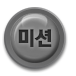
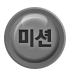
커먼버튼수정

Changed region(s): [[0.0263, 0.4474, 0.8947, 0.9474], [0.8421, 0.3947, 0.8684, 0.4211], [0.0526, 0.3947, 0.0789, 0.4211]]

diff --git a/Classes/RollingButton.h b/Classes/RollingButton.h
@@ -26,6 +26,8 @@ public:
 	CCMenuItemImage* m_openBtn;
 	CCMenuItemImage* m_closeBtn;
 	
+	CCSprite* m_success;
+	
 	CCMenu* m_menu;
 	
 //	CCSprite* m_black_left;
@@ -68,13 +70,18 @@ public:
 		m_closeBtn->setOpacity(0);
 		m_closeBtn->setVisible(false);
 		
+		m_success = CCSprite::create("ui_mission_clear.png");
+		m_success->setAnchorPoint(ccp(0,0));
+		m_success->setPosition(ccp(0,0));
+		m_success->setVisible(false);
+		m_openBtn->addChild(m_success);
 		
 		m_menu = CCMenu::create(m_openBtn,m_closeBtn,NULL);
 		m_menu->setPosition(ccp(0,0));
 		this->addChild(m_menu,3);
 		
 		
-		m_black = CommonButton::getBackgroundByType(CommonButtonGray);
+		m_black = CommonButton::getBackgroundByType(CommonButtonGray2);
 		m_black->setAnchorPoint(ccp(0.5f,0.5f));
 		m_black->setPosition(ccp(0,0));
 		m_black->setContentSize(CCSizeMake(15,15));
@@ -104,7 +111,7 @@ public:
 		
 		// Setup scroll view
 		
-		m_maqueeLbl = LabelTTFMarquee::create(ccc4(170,0,0,0), 160, 18, text);
+		m_maqueeLbl = LabelTTFMarquee::create(ccc4(160,0,0,0), 160, 12, text);
 		m_maqueeLbl->setAnchorPoint(ccp(0.47,0.5));
 		m_maqueeLbl->setPosition(ccp(0,0));
 		m_maqueeLbl->setVisible(false);
@@ -171,11 +178,19 @@ public:
 		this->m_maqueeLbl->stopMarqueeAtIndex(index);
 	}
 	
+	void isSuccessed(bool isSuccessed){
+		if(isSuccessed){
+			m_success->setVisible(true);
+		}else{
+			m_success->setVisible(false);
+		}
+	}
+	
 	void doOpen(){
 		if(m_isOpened==true)return;
 		
 		this->addChild(KSGradualValue<float>::create(38,218,0.3f,[=](float t){
-			m_black->setContentSize(ccp(t,42));
+			m_black->setContentSize(ccp(t,30));
 		}));
 
 //		{

diff --git a/Classes/CommonButton.h b/Classes/CommonButton.h
@@ -22,7 +22,8 @@ using namespace std;
 
 enum CommonButtonType {
 		CommonButtonYellow,
-		CommonButtonGray,
+	CommonButtonGray,
+	CommonButtonGray2,
 		CommonButtonBlue,
 		CommonButtonGreen,
 		CommonButtonOrange,
@@ -150,6 +151,7 @@ public:
 		if(btnType==CommonButtonYellow) btnBackImg = "common_button_yellow.png";
 		else if(btnType==CommonButtonYellow) btnBackImg = "common_button_yellow.png";
 		else if(btnType==CommonButtonGray) btnBackImg = "common_button_gray.png";
+		else if(btnType==CommonButtonGray2) btnBackImg = "common_button_gray2.png";
 		else if(btnType==CommonButtonBlue) btnBackImg = "common_button_blue.png";
 		else if(btnType==CommonButtonGreen) btnBackImg = "common_button_green.png";
 		else if(btnType==CommonButtonOrange) btnBackImg = "common_button_orange.png";
@@ -158,7 +160,13 @@ public:
 		
 		CCScale9Sprite* back = CCScale9Sprite::create(btnBackImg.c_str());
 		
-		if(btnType != CommonButtonClose){
+		if(btnType == CommonButtonGray2){
+			back->setInsetBottom(9);
+			back->setInsetTop(9);
+			back->setInsetLeft(9);
+			back->setInsetRight(9);
+			
+		}else if(btnType != CommonButtonClose){
 			back->setInsetBottom(12);
 			back->setInsetTop(38-12*2);
 			back->setInsetLeft(9);
